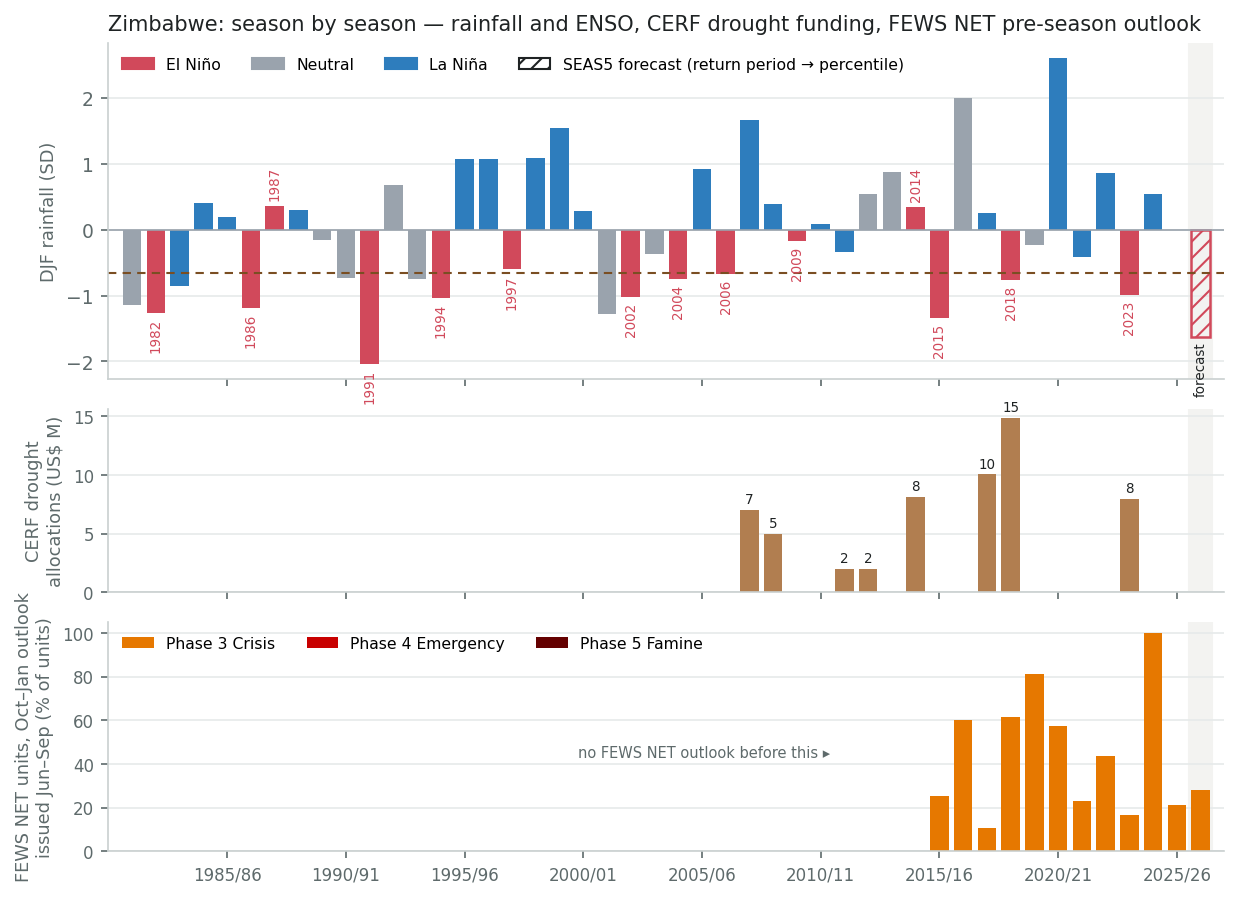
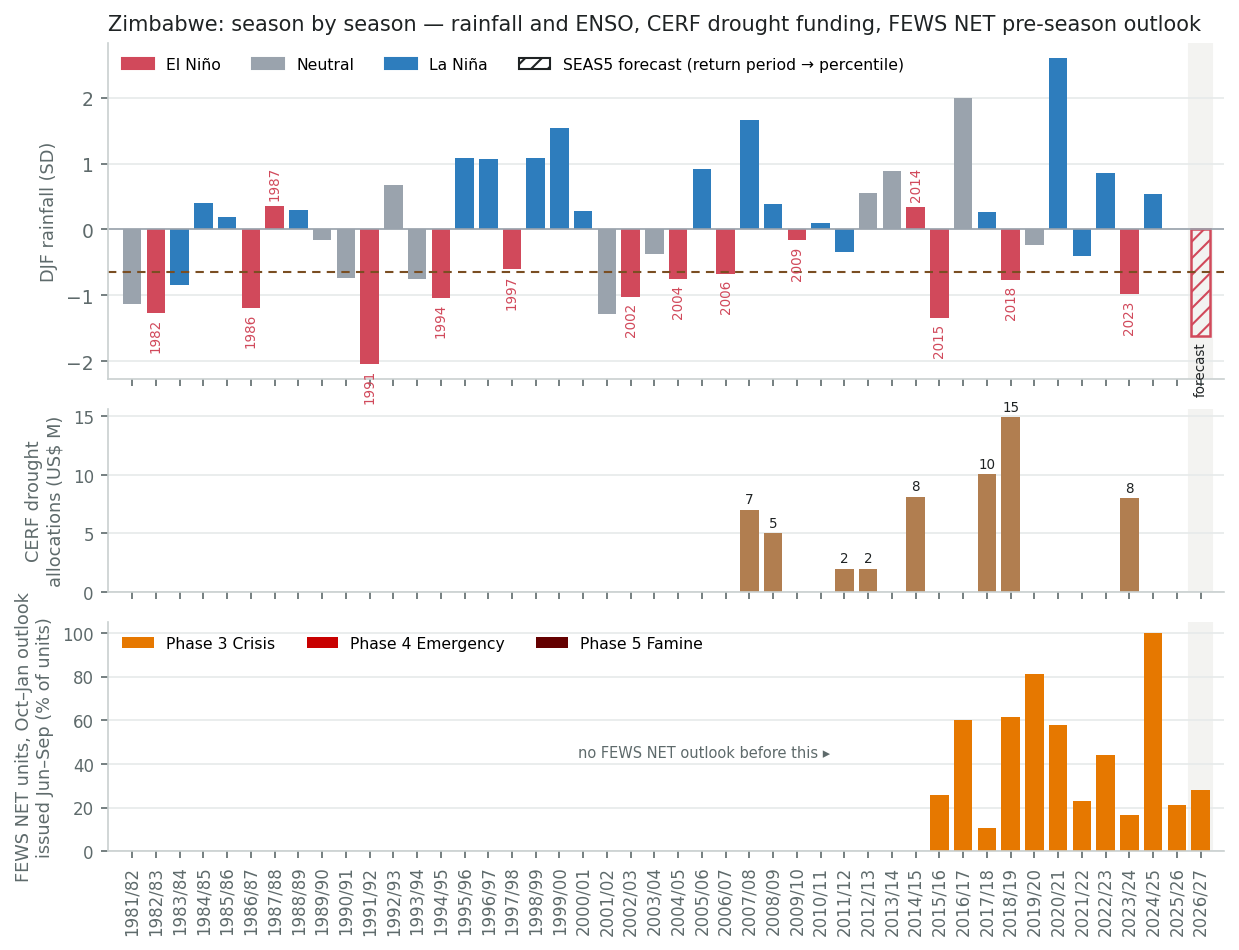
Season figure: a vertical tick label for every season; note the one Phase 4 projection (Feb-Apr 2017) in Zimbabwe's FEWS NET record

diff --git a/docs/enso/zwe/index.html b/docs/enso/zwe/index.html
@@ -96,7 +96,7 @@ a{color:var(--b6)}
 <p class="small">The 14 driest-third DJF seasons: 1981 (Neutral), 1982 (El Niño), 1983 (La Niña), 1986 (El Niño), 1990 (Neutral), 1991 (El Niño), 1993 (Neutral), 1994 (El Niño), 2001 (Neutral), 2002 (El Niño), 2004 (El Niño), 2015 (El Niño), 2018 (El Niño), 2023 (El Niño). Phase split: El Niño 9, Neutral 4, La Niña 1.</p>
 <figure><img src="composite_maps.png" alt="El Niño composite and drought hit-rate maps"><figcaption>Left: mean standardised DJF anomaly across the El Niño years, per cell (median over analysable cells −0.68 SD; 97% of cells below −0.5 SD). Right: the share of El Niño years that landed in the cell's own driest third (median 64%; chance is 33%). White outlines are FEWS NET's reporting units.</figcaption></figure>
 <h2>Season by season: rainfall, El Niño, CERF and FEWS NET</h2>
-<p>Every season since 1981 on one line: how dry it was, whether it was an El Niño season, whether CERF funded a drought response for it, and what FEWS NET was projecting for October–January before that season began — the same product as the projection we have now, so the rows are comparable with the top one. Zimbabwe has never had a Phase 4 or 5 area in FEWS NET's record. The El Niño seasons that became disasters started from very different places: 2015/16 from 26% of units projected in Crisis, 2023/24 from 17%; the seasons after them (2016/17, 2024/25) began from 60% and 100%. 2026/27 begins from 28%.</p>
+<p>Every season since 1981 on one line: how dry it was, whether it was an El Niño season, whether CERF funded a drought response for it, and what FEWS NET was projecting for October–January before that season began — the same product as the projection we have now, so the rows are comparable with the top one. Phase 4 (Emergency) has appeared once in FEWS NET's Zimbabwe record — the October 2016 outlook projected twelve southern units into Emergency for February–April 2017, the lean season after the 2015/16 drought — and never in a current-situation classification; Phase 5 never. The El Niño seasons that became disasters started from very different places: 2015/16 from 26% of units projected in Crisis, 2023/24 from 17%; the seasons after them (2016/17, 2024/25) began from 60% and 100%. 2026/27 begins from 28%.</p>
 
 <figure><img src="seasons.png" alt="Season-by-season time series"><figcaption>The table as a time series: DJF rainfall anomaly coloured by ENSO phase (hatched = the SEAS5 forecast for the coming season, its return period converted to a percentile); CERF drought allocations by season; FEWS NET's pre-season outlook for October–January as stacked shares of units in Phase 3, 4 and 5. Shaded column = the season being forecast.</figcaption></figure>
 <div style="overflow-x:auto"><table class="skill seasons"><thead><tr><th>Season</th><th class="num">DJF rainfall<br><span class="small">anomaly (SD) · rank, 1 = driest</span></th><th>ENSO<br><span class="small">Niño3.4 in DJF</span></th><th>CERF drought allocation<br><span class="small">for this season's drought</span></th><th class="num">FEWS NET outlook for Oct–Jan, issued before the season<br><span class="small">share of units in Phase 3 / 4 / 5</span></th></tr></thead><tbody>

diff --git a/enso_deep_dive.py b/enso_deep_dive.py
@@ -988,8 +988,8 @@ def fig_seasons(rows: list[dict], head: str, out: Path, name: str) -> None:
     first = min([r["year"] for r in rows if np.isfinite(r.get("p3", np.nan))] or [ys[0]])
     ax.text(first - 0.6, 45, "no FEWS NET outlook before this ▸", fontsize=7, color=C_MUTED, ha="right", va="center")
     ax.set_xlim(yrs.min() - 1, yrs.max() + 1)
-    ax.set_xticks([y for y in yrs if y % 5 == 0]); ax.set_xticklabels([f"{y}/{str(y + 1)[-2:]}" for y in yrs if y % 5 == 0])
-    ax.tick_params(labelsize=8.5, colors=C_MUTED)
+    ax.set_xticks(list(yrs)); ax.set_xticklabels([f"{y}/{str(y + 1)[-2:]}" for y in yrs], rotation=90)
+    ax.tick_params(labelsize=7, colors=C_MUTED)
     for a_ in axes[1:]:
         a_.tick_params(labelsize=8, colors=C_MUTED)
     if fc:
